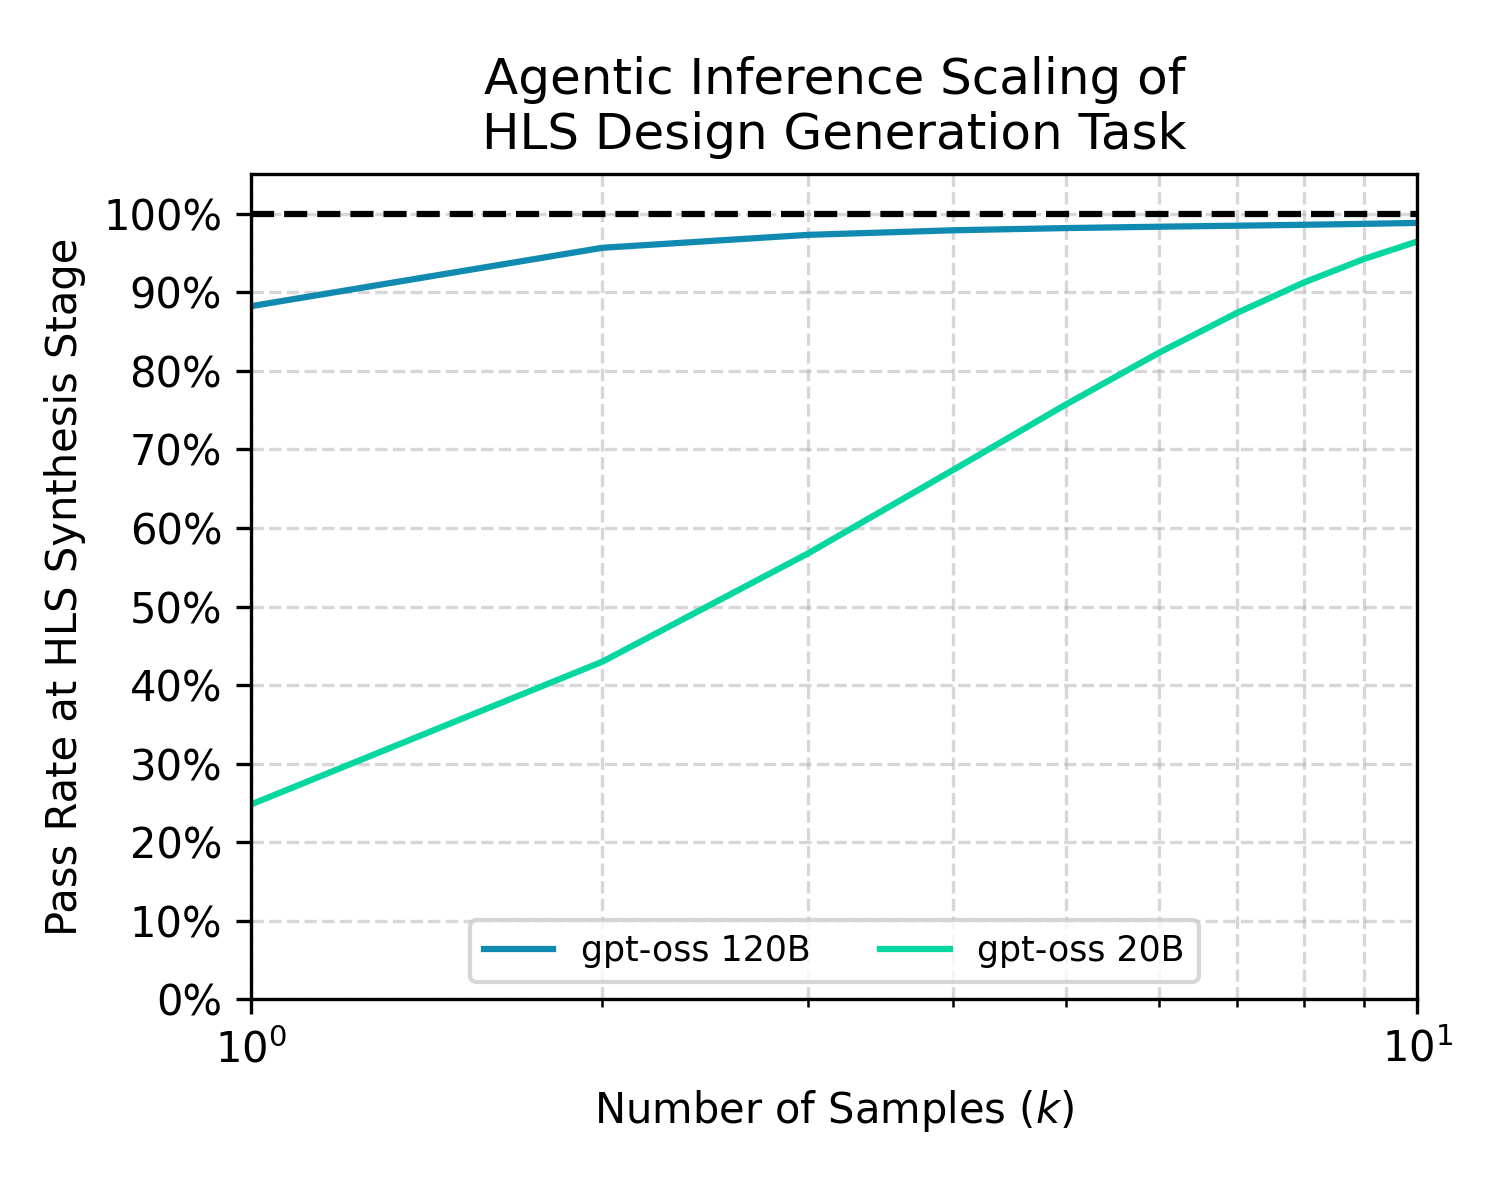
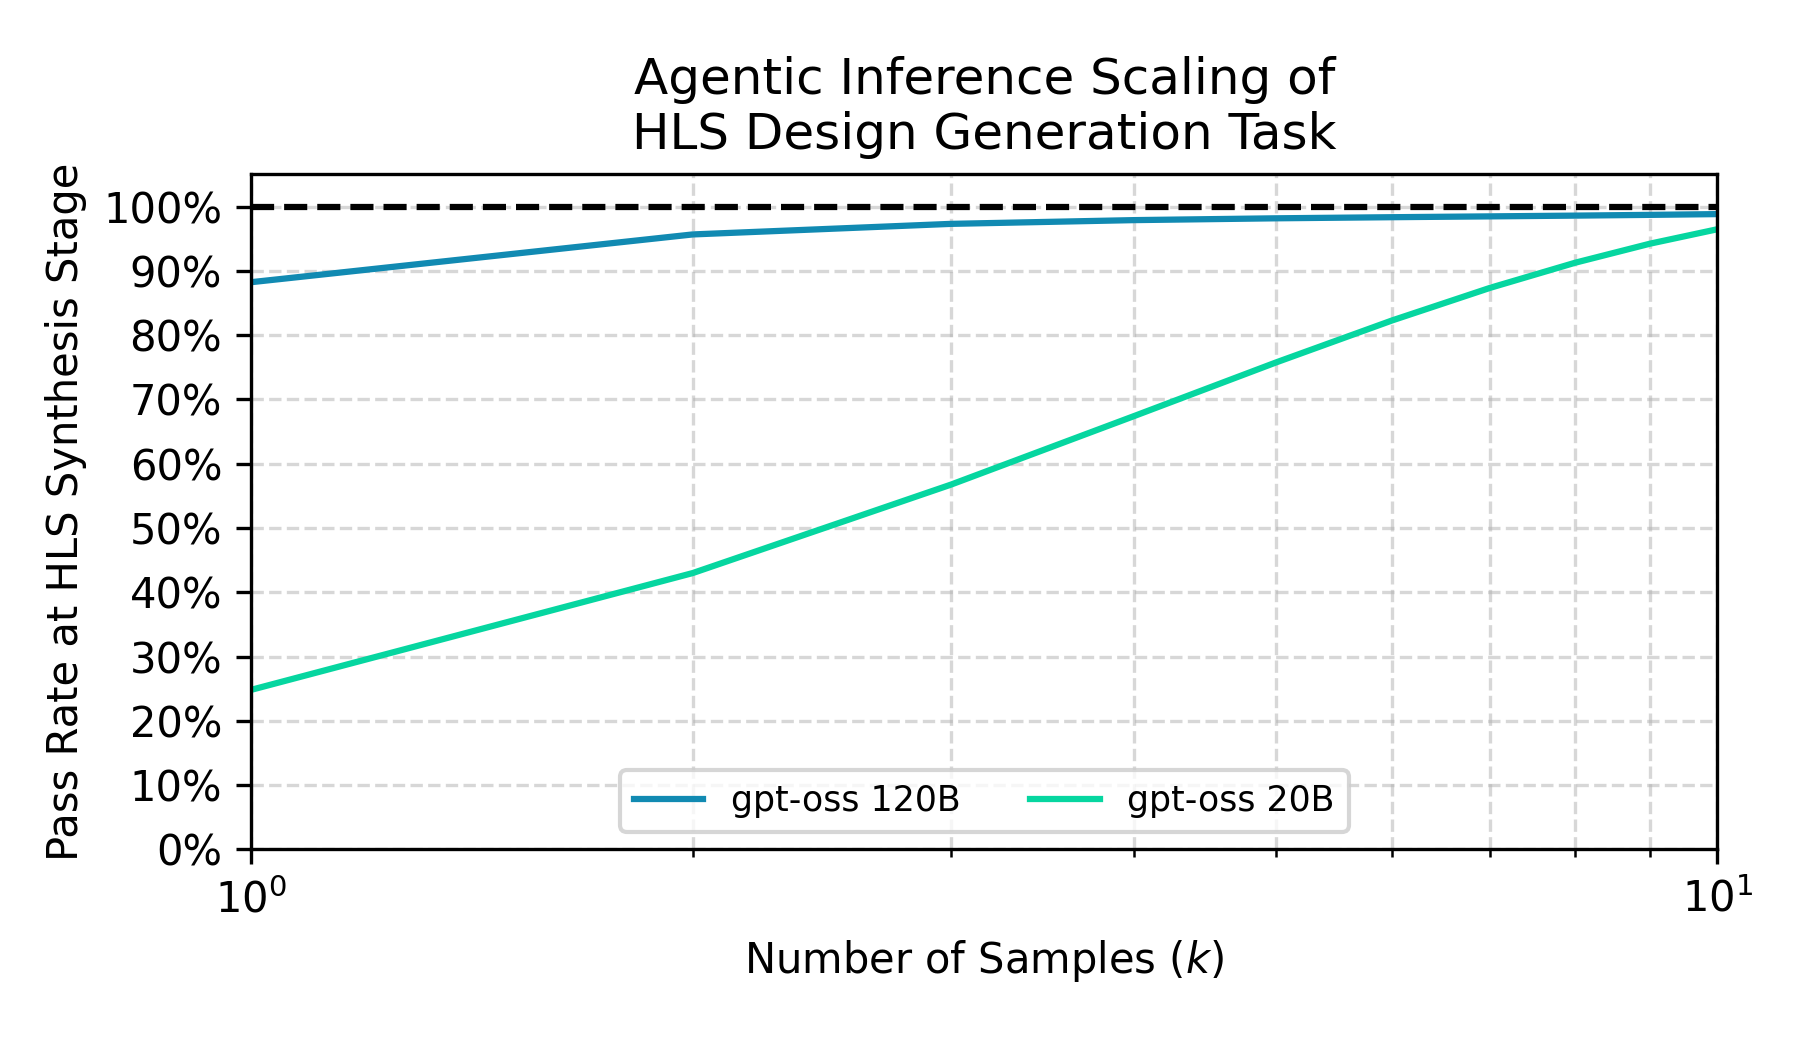
updates

diff --git a/hls_eval_experiments/hls_gen_agent/analyze_agent_traces.py b/hls_eval_experiments/hls_gen_agent/analyze_agent_traces.py
@@ -1,0 +1,311 @@
+import itertools
+import json
+from pathlib import Path
+from pprint import pp
+
+import matplotlib.pyplot as plt
+import numpy as np
+import pandas as pd
+import seaborn as sns
+
+from hls_eval_experiments.exp_utils import (
+    build_df_from_all_eval_json_files,
+    build_pass_table,
+    compute_pass_rates,
+    metric_name_map,
+    model_color_map,
+    model_name_map,
+    pass_at_k,
+    plot_pass_rates_bar,
+    plot_pass_rates_line,
+)
+
+DIR_CURRENT = Path(__file__).resolve().parent
+DIR_INPUT_DATA = DIR_CURRENT / "output_data_v1"
+
+DIR_FIGURES = DIR_CURRENT / "figures"
+if not DIR_FIGURES.exists():
+    DIR_FIGURES.mkdir()
+DIR_DATA = DIR_CURRENT / "data"
+if not DIR_DATA.exists():
+    DIR_DATA.mkdir()
+
+# count how many are missing the single_eval_data.json
+missing = []
+for eval_case_run_dir in DIR_INPUT_DATA.iterdir():
+    eval_data_fp = eval_case_run_dir / "all_eval_data.json"
+    if not eval_data_fp.exists():
+        missing.append(eval_case_run_dir.name)
+
+if len(missing) > 0:
+    print(missing)
+    raise ValueError(f"Missing data from {len(missing)} evals")
+
+all_eval_json_paths = []
+for eval_case_run_dir in DIR_INPUT_DATA.iterdir():
+    eval_data_fp = eval_case_run_dir / "all_eval_data.json"
+    all_eval_json_paths.append(eval_data_fp)
+
+
+# ─────────────────────────────────────────────
+# Build trace-level dataframe
+# ─────────────────────────────────────────────
+
+
+def build_trace_df(all_eval_json_paths: list[Path]) -> pd.DataFrame:
+    """Parse agent traces and extract per-sample token / step metrics."""
+    rows = []
+    for fp in all_eval_json_paths:
+        data = json.loads(fp.read_text())
+        for eval_index, ev in data.items():
+            pass_tb = False
+            if "c_run_out" in ev:
+                pass_tb = ev["c_run_out"]["data_execution"]["return_code"] == 0
+
+            pass_synth = False
+            if "vitis_hls_tool_out" in ev:
+                pass_synth = (
+                    ev["vitis_hls_tool_out"]["data_execution"]["return_code"] == 0
+                )
+
+            trace = ev.get("agent_trace", [])
+
+            # Count assistant steps (LLM calls)
+            n_steps = sum(1 for msg in trace if msg["role"] == "assistant")
+
+            # Sum tokens across all assistant messages that carry usage info
+            total_prompt_tokens = 0
+            total_completion_tokens = 0
+            total_tokens = 0
+            for msg in trace:
+                if msg["role"] != "assistant":
+                    continue
+                usage = msg.get("extra", {}).get("response", {}).get("usage", {})
+                total_prompt_tokens += usage.get("prompt_tokens", 0)
+                total_completion_tokens += usage.get("completion_tokens", 0)
+                total_tokens += usage.get("total_tokens", 0)
+
+            rows.append(
+                {
+                    "eval_id": ev["eval_id"],
+                    "benchmark_case_name": ev["benchmark_case_name"],
+                    "model_name": ev["model_name"],
+                    "eval_index": int(eval_index),
+                    "pass_tb": pass_tb,
+                    "pass_synth": pass_synth,
+                    "n_steps": n_steps,
+                    "total_prompt_tokens": total_prompt_tokens,
+                    "total_completion_tokens": total_completion_tokens,
+                    "total_tokens": total_tokens,
+                    "agent_submitted": ev.get("agent_submitted", False),
+                    "agent_limit_exceeded": ev.get("agent_limit_exceeded", False),
+                }
+            )
+    return pd.DataFrame(rows)
+
+
+df_traces = build_trace_df(all_eval_json_paths)
+print(
+    f"Loaded {len(df_traces)} trace rows across {df_traces['model_name'].nunique()} models"
+)
+print(df_traces[["model_name", "pass_tb", "n_steps", "total_tokens"]].describe())
+
+
+# ─────────────────────────────────────────────
+# KDE plots: total tokens & steps by pass/fail
+# ─────────────────────────────────────────────
+# sns.set_theme(style="whitegrid")
+
+
+def plot_kde_by_pass(
+    df: pd.DataFrame,
+    metric: str,
+    pass_col: str,
+    xlabel: str,
+    title: str,
+    out_path: Path,
+    log_scale: bool = False,
+    min_x: float | None = None,
+):
+    """KDE + rug plot of `metric` split by `pass_col`, one facet per model."""
+    models = sorted(df["model_name"].unique())
+    n_models = len(models)
+    fig, axes = plt.subplots(1, n_models, figsize=(5 * n_models, 4), sharey=False)
+    if n_models == 1:
+        axes = [axes]
+
+    pass_colors = {True: "#2ecc71", False: "#e74c3c"}
+    pass_label_map = {
+        "pass_tb": {True: "Pass TB", False: "Fail TB"},
+        "pass_synth": {True: "Pass Synth", False: "Fail Synth"},
+    }
+    pass_labels = pass_label_map.get(pass_col, {True: "Pass", False: "Fail"})
+
+    for ax, model in zip(axes, models):
+        ax.grid(which="both", axis="both", linestyle="--", alpha=0.5)
+        ax.set_axisbelow(True)
+        df_m = df[df["model_name"] == model]
+        for passed, grp in df_m.groupby(pass_col):
+            vals = grp[metric].dropna()
+            # if log_scale:
+            #     vals = vals[vals > 0]
+            # if len(vals) < 2:
+            #     continue
+            color = pass_colors[passed]
+            label = f"{pass_labels[passed]} (n={len(vals)})"
+            # plot_vals = np.log10(vals) if log_scale else vals
+            plot_vals = vals
+
+            # if clip is not none and log is true, then the clip calue is log10(min_x)
+            # else if log is not true, then the clip value is just min_x
+            if log_scale and min_x is not None:
+                clip_kwarg = np.log10(min_x)
+            else:
+                clip_kwarg = min_x
+
+            sns.kdeplot(
+                plot_vals,
+                ax=ax,
+                fill=True,
+                alpha=0.35,
+                color=color,
+                label=label,
+                log_scale=log_scale,
+                clip=(clip_kwarg, None),
+            )
+
+        if metric == "n_steps":
+            ax.set_xlim(left=1)
+
+        display_name = model_name_map.get(model, model)
+        ax.set_title(f"Model: {display_name}", fontsize=10)
+        ax.set_xlabel(f"{xlabel}" if log_scale else xlabel)
+        ax.set_ylabel("Density")
+        ax.legend(fontsize=8)
+
+    fig.suptitle(title, fontsize=12, y=1.02)
+    fig.tight_layout()
+    fig.savefig(out_path, bbox_inches="tight", dpi=150)
+    plt.close(fig)
+    print(f"Saved: {out_path}")
+
+
+def plot_kde_combined(
+    df: pd.DataFrame,
+    pass_col: str,
+    title: str,
+    out_path: Path,
+):
+    """2-row × N-model grid: row 0 = total tokens (log), row 1 = n_steps (log)."""
+    model_order = ["openai/gpt-oss-20b", "openai/gpt-oss-120b"]
+    models = [m for m in model_order if m in df["model_name"].unique()]
+    # fall back to sorted for any models not in the explicit order
+    models += sorted(m for m in df["model_name"].unique() if m not in model_order)
+    n_models = len(models)
+
+    row_specs = [
+        dict(metric="total_tokens", xlabel="Total tokens", log_scale=True, min_x=1),
+        dict(metric="n_steps", xlabel="Number of agent steps", log_scale=True, min_x=1),
+    ]
+
+    pass_colors = {True: "#2ecc71", False: "#e74c3c"}
+    pass_label_map = {
+        "pass_tb": {True: "Pass TB", False: "Fail TB"},
+        "pass_synth": {True: "Pass Synth", False: "Fail Synth"},
+    }
+    pass_labels = pass_label_map.get(pass_col, {True: "Pass", False: "Fail"})
+
+    fig, axes = plt.subplots(
+        2,
+        n_models,
+        figsize=(5 * n_models, 5),
+        sharey=False,
+    )
+    # ensure axes is always 2-D
+    if n_models == 1:
+        axes = axes.reshape(2, 1)
+
+    for row, spec in enumerate(row_specs):
+        metric = spec["metric"]
+        xlabel = spec["xlabel"]
+        log_scale = spec["log_scale"]
+        min_x = spec["min_x"]
+
+        for col, model in enumerate(models):
+            ax = axes[row, col]
+            ax.grid(which="both", axis="both", linestyle="--", alpha=0.5)
+            ax.set_axisbelow(True)
+
+            df_m = df[df["model_name"] == model]
+            for passed, grp in df_m.groupby(pass_col):
+                vals = grp[metric].dropna()
+                color = pass_colors[passed]
+                label = f"{pass_labels[passed]} (n={len(vals)})"
+
+                clip_kwarg = (
+                    np.log10(min_x) if (log_scale and min_x is not None) else min_x
+                )
+
+                sns.kdeplot(
+                    vals,
+                    ax=ax,
+                    fill=True,
+                    alpha=0.35,
+                    color=color,
+                    label=label,
+                    log_scale=log_scale,
+                    clip=(clip_kwarg, None),
+                )
+
+            ax.set_xlabel(xlabel)
+            ax.set_ylabel("Density")
+            ax.legend(fontsize=8)
+            if metric == "n_steps":
+                ax.set_xlim(left=1)
+
+            # column titles only on top row
+            if row == 0:
+                display_name = model_name_map.get(model, model)
+                ax.set_title(f"Model: {display_name}", fontsize=10)
+
+    fig.suptitle(title, fontsize=13, y=0.98)
+    fig.tight_layout()
+    fig.savefig(out_path, bbox_inches="tight", dpi=150)
+    plt.close(fig)
+    print(f"Saved: {out_path}")
+
+
+plot_kde_combined(
+    df_traces,
+    pass_col="pass_tb",
+    title="Agent Trace Distributions — Grouped by Pass vs Fail Testbench",
+    out_path=DIR_FIGURES / "kde_combined_by_pass_tb.png",
+)
+
+plot_kde_combined(
+    df_traces,
+    pass_col="pass_synth",
+    title="Agent Trace Distributions — Grouped by Pass vs Fail Synthesis",
+    out_path=DIR_FIGURES / "kde_combined_by_pass_synth.png",
+)
+
+
+# ─────────────────────────────────────────────
+# Summary stats table
+# ─────────────────────────────────────────────
+
+for pass_col, label in [("pass_tb", "pass_tb"), ("pass_synth", "pass_synth")]:
+    summary = (
+        df_traces.groupby(["model_name", pass_col])[["total_tokens", "n_steps"]]
+        .agg(["mean", "median", "std", "count"])
+        .round(1)
+    )
+    summary.index = summary.index.set_levels(
+        [model_name_map.get(m, m) for m in summary.index.get_level_values(0).unique()],
+        level=0,
+    )
+    out_csv = DIR_DATA / f"trace_summary_by_{label}.csv"
+    print(f"\n=== Summary: tokens & steps by model and {label} ===")
+    print(summary.to_string())
+    summary.to_csv(out_csv)
+    print(f"Saved: {out_csv}")

diff --git a/hls_eval_experiments/hls_gen_agent/analyze.py b/hls_eval_experiments/hls_gen_agent/analyze.py
@@ -101,7 +101,7 @@ df_pass_rates_synth_only = df_pass_rates_all[
 # print(df_pass_rates_synth_only)
 
 
-fig, ax = plt.subplots(figsize=(5, 4))
+fig, ax = plt.subplots(figsize=(6, 3.5))
 
 ax.grid(which="both", axis="both", linestyle="--", alpha=0.5)
 ax.set_axisbelow(True)
